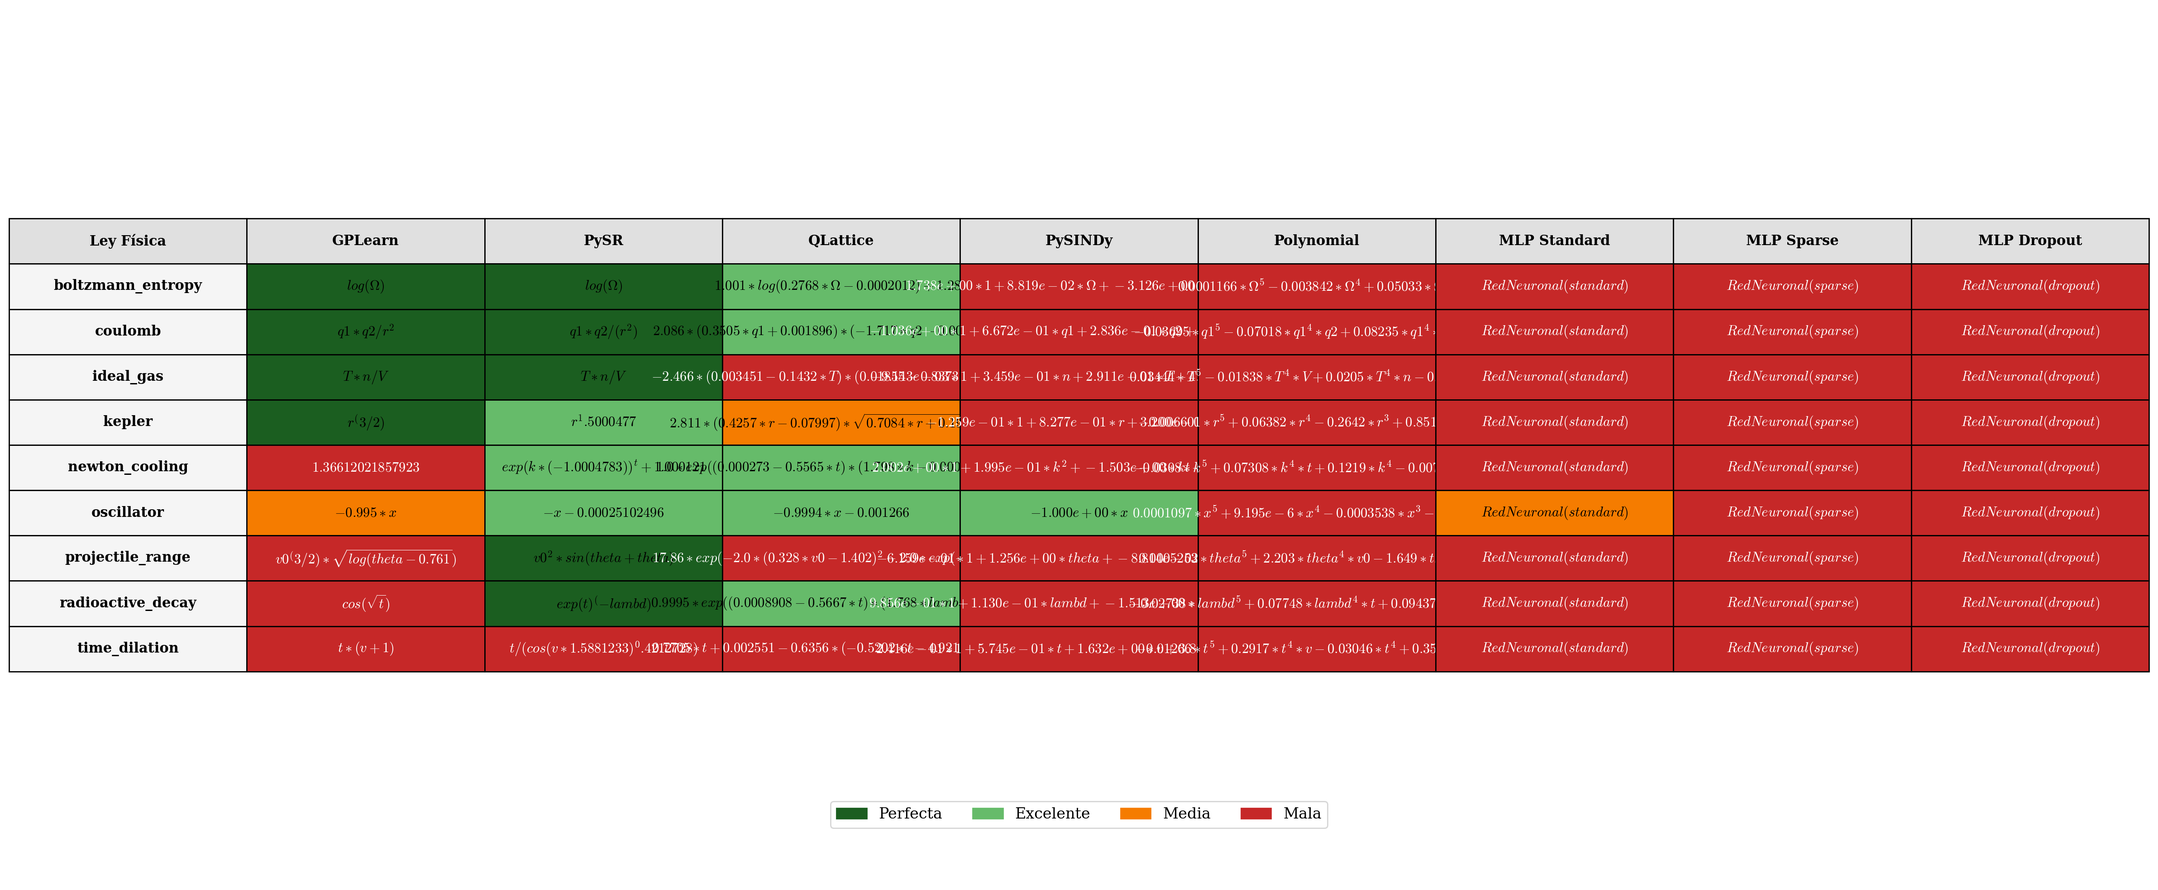
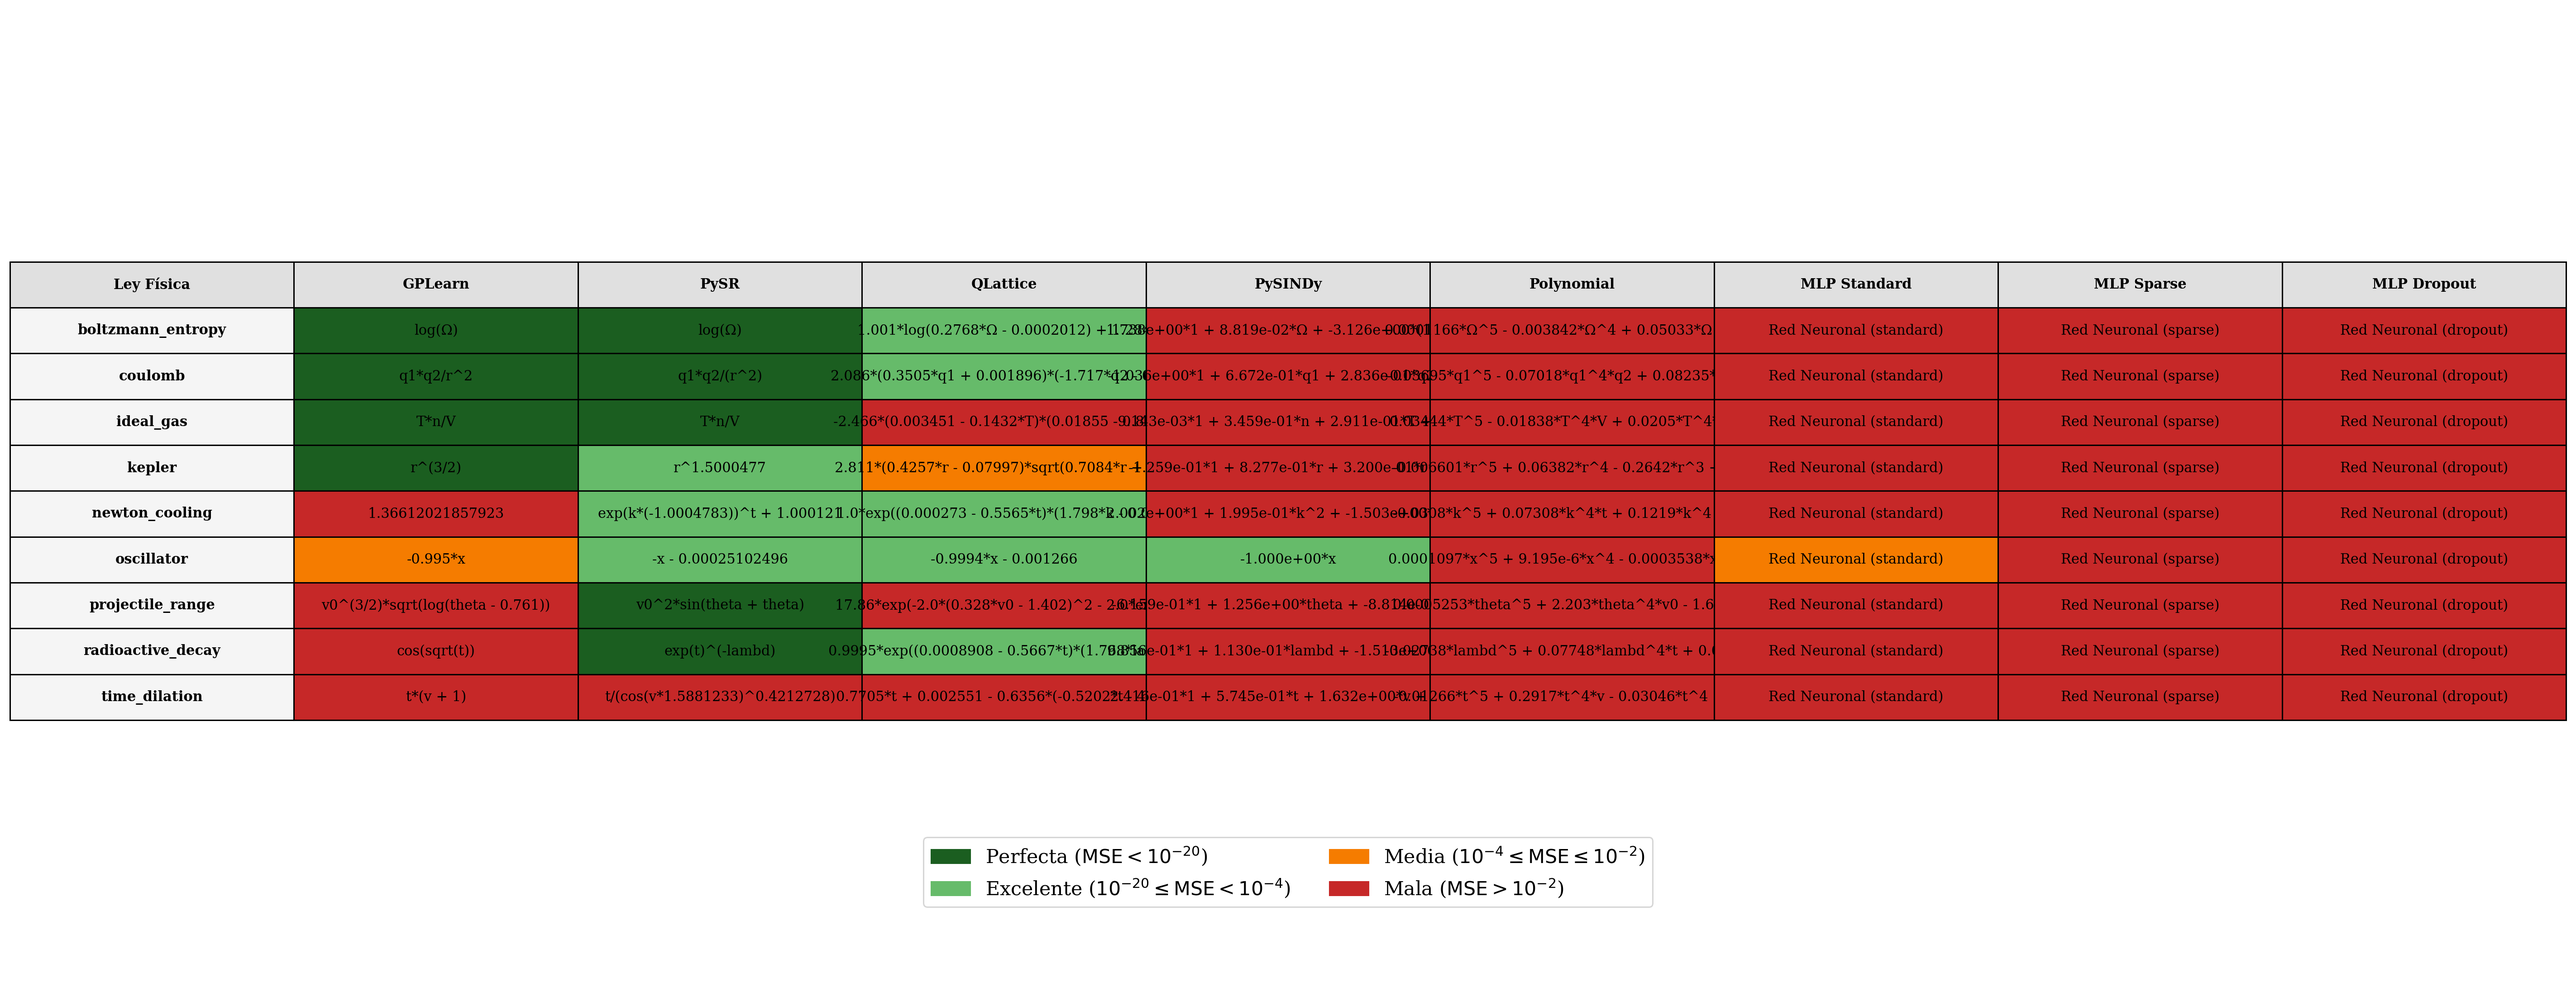
data_tables

Changed region(s): [[0.0, 0.248, 1.0, 0.7749], [0.3438, 0.8369, 0.625, 0.9299]]

diff --git a/src/table_final.py b/src/table_final.py
@@ -1,5 +1,5 @@
 r"""
-table_final.py - FIX ESTABLE (sin errores LaTeX)
+table_final.py - FIX FINAL ROBUSTO (SIN LATEX CRASH + WRAP + LEYENDA CIENTÍFICA)
 """
 
 import json
@@ -32,18 +32,16 @@ plt.rcParams.update({
     "axes.facecolor": "#FFFFFF",
     "text.color": "#000000",
     "font.family": "serif",
-    "font.size": 12,
-    "mathtext.fontset": "cm",
+    "font.size": 11,
 })
 
 PERFECT_GREEN = "#1B5E20"
 EXCELLENT_GREEN = "#66BB6A"
 ORANGE = "#F57C00"
 RED = "#C62828"
-NULL_COLOUR = "#EEEEEE"
 
 # ─────────────────────────────────────────────────────────────
-# NAMES
+# MODELS
 # ─────────────────────────────────────────────────────────────
 
 MODEL_ORDER = [
@@ -115,49 +113,36 @@ def load_ood(path):
     return ood
 
 # ─────────────────────────────────────────────────────────────
-# SAFE LATEX (FIX PRINCIPAL)
+# SAFE TEXT (SIN LATEX -> EVITA CRASHES)
 # ─────────────────────────────────────────────────────────────
 
-def clean_latex(eq: str) -> str:
+def clean_equation(eq: str) -> str:
     if eq in ["", "--", None]:
         return "--"
 
     eq = str(eq).replace("\n", " ")
 
-    # fixes básicos
-    eq = eq.replace("omega", r"\Omega")
+    # simplificaciones seguras
     eq = eq.replace("**", "^")
+    eq = eq.replace("omega", "Ω")
 
-    # evitar sqrt roto
-    eq = re.sub(r"sqrt\((.*?)\)", r"\\sqrt{\1}", eq)
+    # sqrt seguro básico
+    eq = re.sub(r"sqrt\((.*?)\)", r"sqrt(\1)", eq)
 
-    # eliminar cosas peligrosas para matplotlib
-    eq = eq.replace("...", "")
-    eq = eq.strip()
+    # limpiar basura
+    eq = re.sub(r"\s+", " ", eq)
 
-    return eq
+    return eq.strip()
 
 
-def safe_truncate_latex(eq: str, maxlen=55) -> str:
+def truncate_text(eq: str, maxlen=45) -> str:
     if eq == "--":
         return eq
 
-    inner = eq.strip()
+    if len(eq) <= maxlen:
+        return eq
 
-    if len(inner) <= maxlen:
-        return f"${inner}$"
-
-    cut = inner[:maxlen]
-
-    # NO romper llaves
-    open_b = cut.count("{")
-    close_b = cut.count("}")
-
-    if open_b > close_b:
-        cut += "}" * (open_b - close_b)
-
-    # cierre seguro
-    return f"${cut} \\cdots$"
+    return eq[:maxlen] + "..."
 
 
 # ─────────────────────────────────────────────────────────────
@@ -169,23 +154,18 @@ def get_colour(mse, mae):
     if mse is None or (isinstance(mse, float) and np.isnan(mse)):
         return RED
 
-    if mae is not None and mae == 0:
-        return PERFECT_GREEN
-
     if mse < 1e-20:
         return PERFECT_GREEN
-
     elif mse < 1e-4:
         return EXCELLENT_GREEN
-
     elif mse <= 1e-2:
         return ORANGE
-
-    return RED
+    else:
+        return RED
 
 
 # ─────────────────────────────────────────────────────────────
-# TABLE BUILD
+# TABLE
 # ─────────────────────────────────────────────────────────────
 
 def build_table(df, ood, noise, laws, models):
@@ -196,9 +176,11 @@ def build_table(df, ood, noise, laws, models):
         row_t, row_c = [], []
 
         for model in models:
-            sub = df[(df["model"] == model) &
-                     (df["law"] == law) &
-                     (df["noise"] == noise)]
+            sub = df[
+                (df["model"] == model) &
+                (df["law"] == law) &
+                (df["noise"] == noise)
+            ]
 
             if sub.empty:
                 eq = "--"
@@ -209,8 +191,8 @@ def build_table(df, ood, noise, laws, models):
 
             mse = ood.get(law, {}).get(model, {}).get(noise)
 
-            eq_clean = clean_latex(eq)
-            eq_final = safe_truncate_latex(eq_clean)
+            eq_clean = clean_equation(eq)
+            eq_final = truncate_text(eq_clean)
 
             row_t.append(eq_final)
             row_c.append(get_colour(mse, mae))
@@ -229,7 +211,7 @@ def render(cell_text, cell_colors, laws, models, law_names, out_path):
 
     headers = [MODEL_HEADER[m] for m in models]
 
-    fig, ax = plt.subplots(figsize=(24, 10))
+    fig, ax = plt.subplots(figsize=(26, 10))
     ax.axis("off")
 
     table_text = [[law_names.get(l, l)] + row for l, row in zip(laws, cell_text)]
@@ -244,10 +226,14 @@ def render(cell_text, cell_colors, laws, models, law_names, out_path):
     )
 
     tbl.auto_set_font_size(False)
-    tbl.set_fontsize(11)
-    tbl.scale(1, 2.4)
+    tbl.set_fontsize(10)
+    tbl.scale(1.0, 2.2)
 
+    # 🔥 FIX: wrap + clip + ajuste
     for (r, c), cell in tbl.get_celld().items():
+        cell.get_text().set_wrap(True)
+        cell.set_clip_on(True)
+
         if r == 0:
             cell.set_facecolor("#E0E0E0")
             cell.set_text_props(weight="bold")
@@ -255,26 +241,32 @@ def render(cell_text, cell_colors, laws, models, law_names, out_path):
         if c == 0:
             cell.set_text_props(weight="bold")
 
-        if cell.get_facecolor() == plt.matplotlib.colors.to_rgba(RED):
-            cell.set_text_props(color="white")
+    # ─────────────────────────────────────────────
+    # LEGEND (MEJORADA)
+    # ─────────────────────────────────────────────
 
     legend = [
-        mpatches.Patch(color=PERFECT_GREEN, label="Perfecta"),
-        mpatches.Patch(color=EXCELLENT_GREEN, label="Excelente"),
-        mpatches.Patch(color=ORANGE, label="Media"),
-        mpatches.Patch(color=RED, label="Mala"),
+        mpatches.Patch(color=PERFECT_GREEN,
+                       label=r"Perfecta ($\mathrm{MSE} < 10^{-20}$)"),
+        mpatches.Patch(color=EXCELLENT_GREEN,
+                       label=r"Excelente ($10^{-20} \leq \mathrm{MSE} < 10^{-4}$)"),
+        mpatches.Patch(color=ORANGE,
+                       label=r"Media ($10^{-4} \leq \mathrm{MSE} \leq 10^{-2}$)"),
+        mpatches.Patch(color=RED,
+                       label=r"Mala ($\mathrm{MSE} > 10^{-2}$)"),
     ]
 
     ax.legend(
         handles=legend,
         loc="upper center",
-        bbox_to_anchor=(0.5, 0.1),
-        ncol=4,
-        frameon=True
+        bbox_to_anchor=(0.5, 0.15),
+        ncol=2,
+        frameon=True,
+        fontsize=14
     )
 
-    fig.tight_layout()
-    fig.savefig(out_path, dpi=200, bbox_inches="tight")
+    plt.tight_layout()
+    fig.savefig(out_path, dpi=220, bbox_inches="tight")
     plt.close(fig)
 
 
